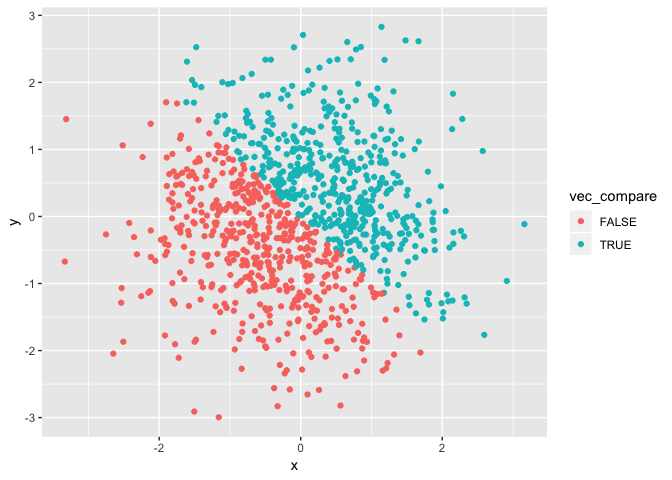
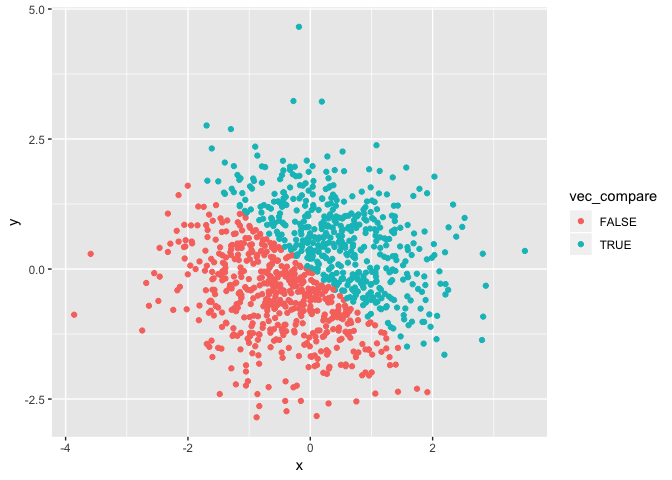
Formatted the code with comments.

diff --git a/p8105_hw1_qw2282.md b/p8105_hw1_qw2282.md
@@ -8,20 +8,8 @@ Problem 1
 
 ``` r
 library(tidyverse)
-```
 
-    ## ── Attaching packages ─────────────────────────────────────────── tidyverse 1.2.1 ──
-
-    ## ✔ ggplot2 3.0.0     ✔ purrr   0.2.5
-    ## ✔ tibble  1.4.2     ✔ dplyr   0.7.6
-    ## ✔ tidyr   0.8.1     ✔ stringr 1.3.1
-    ## ✔ readr   1.1.1     ✔ forcats 0.3.0
-
-    ## ── Conflicts ────────────────────────────────────────────── tidyverse_conflicts() ──
-    ## ✖ dplyr::filter() masks stats::filter()
-    ## ✖ dplyr::lag()    masks stats::lag()
-
-``` r
+#Create the data frame with numericals, logicals, characters and factors. 
 df_random_samp = tibble(
    rand_samp = runif(10, min = 0, max = 5),
    logical_larger_2 = rand_samp > 2,
@@ -29,16 +17,30 @@ df_random_samp = tibble(
    rand_factor = factor(c("january", "february", "march", "april", "may", "june", "july", "august", "semptember", "october"))
 )
 
+#Examine the length of characters and facotrs
+length(df_random_samp$rand_char)
+```
+
+    ## [1] 10
+
+``` r
+length(df_random_samp$rand_factor)
+```
+
+    ## [1] 10
+
+``` r
+#Calculate the mean of each element in the data frame.
 mean(df_random_samp$rand_samp)
 ```
 
-    ## [1] 2.970096
+    ## [1] 2.126738
 
 ``` r
 mean(df_random_samp$logical_larger_2)
 ```
 
-    ## [1] 0.7
+    ## [1] 0.4
 
 ``` r
 mean(df_random_samp$rand_char)
@@ -58,9 +60,13 @@ mean(df_random_samp$rand_factor)
 
     ## [1] NA
 
-Vectors of numerical values and logicals have means while the vectors of characters and factors do not have means. This is because the numerical values can be averaged into a numerical mean. And logicals, TRUEs and FALSEs, are also stored as integers. TRUEs are stored as 1s and FALSEs are stored as 0. So when the mean function is called, the mean can be calculated with either 0 or 1. However, characters and factors are strings that do not have a numerical mean.
+Result of mean of each variable
+===============================
+
+Vectors of numerical values and logicals have means while the vectors of characters and factors do not have means. This is because the numerical values can be averaged into a numerical mean. And logicals, TRUEs and FALSEs, are also stored as integers. TRUEs are stored as 1s and FALSEs are stored as 0s. So when the mean function is called, the mean can be calculated with either 0 or 1. However, characters and factors are strings that do not have a numerical mean. As a result, a warning poped out
 
 ``` r
+#Coerce logicals, characters and factors into numerics. 
 as.numeric(df_random_samp$logical_larger_2)
 as.numeric(df_random_samp$rand_char)
 ```
@@ -74,11 +80,15 @@ as.numeric(df_random_samp$rand_factor)
 Only the logicals and factors can be coerced into numericals. The characters cannot be converted and 'NA' is displayed for each element and a warning message poped out.
 
 ``` r
+#Coerce between factors and characters. 
 as.numeric(as.factor(df_random_samp$rand_char))
 as.numeric(as.character(df_random_samp$rand_factor))
 ```
 
     ## Warning: NAs introduced by coercion
+
+Comment on the relationship between factors and characters
+==========================================================
 
 When I convert the vector of characters first into factor and then into numerics, the vector is successfully converted into numbers. However, when the vector of factors first being converted into characters and then into numerics, the coercion is unsuccessful and a warning message poped out. This is because the character cannot be coerced into numericals directly.
 
@@ -86,9 +96,10 @@ Problem 2
 =========
 
 ``` r
+#Define the data frame with x, y, logicals and factors. 
 df_plotting = tibble(
-   x = rnorm(1000),
-   y = rnorm(1000),
+   x = rnorm(1000, mean = 0, sd = 1),
+   y = rnorm(1000, mean = 0, sd = 1),
    vec_compare = (x + y) > 0,
    num_from_logical = as.numeric(vec_compare),
    factor_from_logical = as.factor(vec_compare)
@@ -98,28 +109,29 @@ df_plotting = tibble(
 Description of the dataset
 ==========================
 
-This data set includes 1000 rows and 5 columns. This data set includes three numerical vectors: x, y and a numerical coercion of the logical vector num\_from\_logical; one logical vector: vec\_compare; one factor vector: factor\_from\_logical. The mean of x is -0.0303216. the median of x is -0.0332879. The proportion of TRUE in the logical vector vec\_compare is 0.494.
+This data set includes 1000 rows and 5 columns. The size of the data set is 1000, 5.This data set includes three numerical vectors: x, y and a numerical coercion of the logical vector num\_from\_logical; one logical vector: vec\_compare; one factor vector: factor\_from\_logical. The mean of x is 0.0047518. the median of x is 0.0435479. The proportion of TRUE in the logical vector vec\_compare is 0.489.
 
 ``` r
+#Plot and save the first figure of x, y. With color differentiated by logicals. 
 ggplot(df_plotting, aes(x = x, y = y, color = vec_compare)) + geom_point()
 ```
 
-![](p8105_hw1_qw2282_files/figure-markdown_github/unnamed-chunk-5-1.png)
+![](p8105_hw1_qw2282_files/figure-markdown_github/plot_with_data-1.png)
 
 ``` r
 ggsave("scatter_plot.pdf", height = 4, width = 6)
 
-
+#Plot another two plots, colored by numerics and factors. 
 ggplot(df_plotting, aes(x = x, y = y, color = num_from_logical)) + geom_point()
 ```
 
-![](p8105_hw1_qw2282_files/figure-markdown_github/unnamed-chunk-5-2.png)
+![](p8105_hw1_qw2282_files/figure-markdown_github/plot_with_data-2.png)
 
 ``` r
 ggplot(df_plotting, aes(x = x, y = y, color = factor_from_logical)) + geom_point()
 ```
 
-![](p8105_hw1_qw2282_files/figure-markdown_github/unnamed-chunk-5-3.png)
+![](p8105_hw1_qw2282_files/figure-markdown_github/plot_with_data-3.png)
 
 Comment on the color scale
 ==========================
